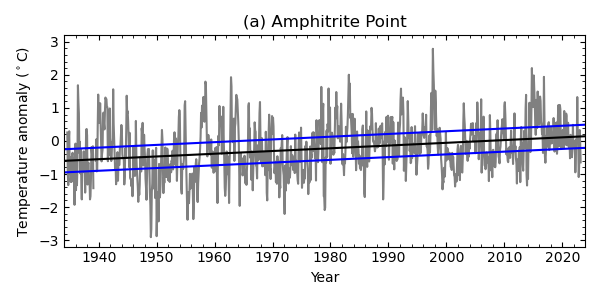
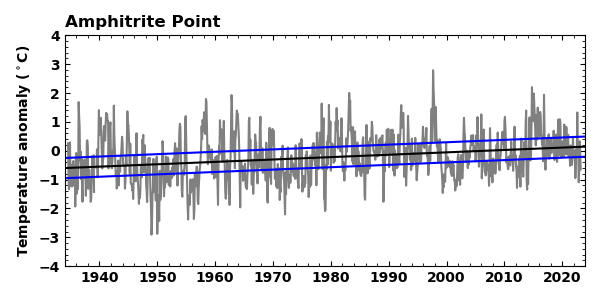
update plots of monthly anomaly trends to all have same y scale

diff --git a/scripts/plot_lightstation_temperature.py b/scripts/plot_lightstation_temperature.py
@@ -57,14 +57,11 @@ def date_to_flat_numeric(all_years):
     return date_flat
 
 
-def plot_monthly_anom(anom_file: str, station_name: str, subplot_letter: str,
-                      plot_name: str, best_fit=None):
+def plot_monthly_anomalies(anom_file: str, station_name: str, plot_name: str, best_fit=None):
     """
     Plot lightstation sea surface temperature anomalies in grey with a trend line
     :param anom_file: path of file containing SST anomaly data
     :param station_name: name of the lightstation
-    :param subplot_letter: a letter to add to the corner of the plot if it will
-    be a subplot
     :param plot_name: full path name to save the plot to
     :param best_fit: None or "lstq" or the full path to a csv file containing the
     best fit results
@@ -135,10 +132,10 @@ def plot_monthly_anom(anom_file: str, station_name: str, subplot_letter: str,
 
     # Plot formatting
     ax.set_xlim((min(date_flat), max(date_flat)))
-    ybot, ytop = plt.ylim()
-    ax.set_ylim((-max(abs(np.array([ybot, ytop]))),
-                 max(abs(np.array([ybot, ytop])))))
-    ax.set_xlabel('Year')
+    # ybot, ytop = plt.ylim()
+    # ax.set_ylim((-max(abs(np.array([ybot, ytop]))),
+    #              max(abs(np.array([ybot, ytop])))))
+    ax.set_ylim((-4, 4))
     ax.set_ylabel('Temperature anomaly ($^\circ$C)')
     ax.minorticks_on()
     plt.tick_params(which='major', direction='in',
@@ -148,7 +145,7 @@ def plot_monthly_anom(anom_file: str, station_name: str, subplot_letter: str,
     # ax.tick_params(axis='x', which='minor', bottom=False, direction='in')
     # ax.set_title(
     #     f'Time series of temperature anomalies at {station_name}')
-    ax.set_title(f'({subplot_letter}) {station_name}')
+    ax.set_title(station_name, loc='left')
     plt.tight_layout()
     plt.savefig(plot_name)
     plt.close(fig)
@@ -477,83 +474,6 @@ def multi_trend_table_image():
     df_img.to_csv(
         os.path.join(analysis_dir, os.path.basename(df_img_name).replace('png', 'csv')),
         index=True
-    )
-
-    # Change the current directory back
-    os.chdir(old_dir)
-    return
-
-
-def trend_table_image_deprec():
-    """ DEPRECATED
-    Save the table of analysis periods, trends, and confidence intervals as an image.
-    Include the Cummins & Masson (2014) data for comparison.
-    Code requires and assumes that stations are only listed in alphabetical order
-    everywhere
-    :return:
-    """
-    old_dir = os.getcwd()
-    new_dir = os.path.dirname(old_dir)
-    os.chdir(new_dir)
-
-    analysis_dir = os.path.join(new_dir, 'analysis')
-    figures_dir = os.path.join(new_dir, 'figures')
-    data_dir = os.path.join(new_dir, 'data', 'monthly')
-
-    # Get file containing new trends
-    new_trend_file = './analysis/monte_carlo_max_siml50000_st_cummins.csv'
-    df_new_trend = pd.read_csv(new_trend_file)
-
-    cm2014_file = './analysis/cummins_masson_2014_trends.csv'
-    cm2014_df = pd.read_csv(cm2014_file)
-
-    # Make a dataframe to print to an image containing the analysis period
-    # and the trends and confidence intervals for each station
-    df_img = cm2014_df
-
-    # Initialize columns for containing the updated results
-    df_img['New analysis time period'] = np.repeat('', len(df_img))
-    df_img['New least-squares trend in C/century'] = np.repeat('', len(df_img))
-
-    # Get the raw data in csv format
-    raw_files = glob.glob(data_dir + '/*MonthlyTemp.csv')
-    if len(raw_files) == 0:
-        print('No monthly temperature data files found; try a different search key')
-        return
-    raw_files.sort()
-
-    # Iterate through all the files
-    for i in range(len(raw_files)):
-        df_in = pd.read_csv(raw_files[i], index_col='Year', na_values=[99.99, 999.9, 999.99])
-
-        # Get the start and end month and year of analysis period
-        # with the end including the very last record, different than nans_to_strip() function
-        st_mth, st_yr, en_mth, en_yr = get_record_st_en(df_in)
-
-        # Both for deg C/century
-        trend_i = np.round(df_new_trend.loc[i, 'Theil-Sen slope [deg C/century]'], decimals=2)
-        conf_int_i = np.round(
-            df_new_trend.loc[i, 'Monte Carlo confidence limit [deg C/century]'],
-            decimals=2
-        )
-
-        # Update the dataframe to be exported as an image
-        df_img.loc[i, 'New analysis time period'] = f'{st_mth} {st_yr} - {en_mth} {en_yr}'
-        df_img.loc[i, 'New least-squares trend in C/century'] = '{:.2f} +/- {:.2f}'.format(
-            trend_i, conf_int_i)
-
-    # Export the table in PNG format
-    df_img.set_index('Station', inplace=True)
-    df_img_name = os.path.join(
-        figures_dir,
-        os.path.basename(new_trend_file).replace('.csv', '_cm2014.png')
-    )
-    dfi.export(df_img, os.path.join(figures_dir, df_img_name))
-
-    # Export the table in csv format too
-    df_img.to_csv(
-        os.path.join(analysis_dir, os.path.basename(df_img_name).replace('png', 'csv')),
-        index=False
     )
 
     # Change the current directory back
@@ -1099,7 +1019,7 @@ def plot_daily_T_statistics():
 
 
 def main(
-        plot_t_anom: bool = False,
+        plot_monthly_anom: bool = False,
         plot_clim: bool = False,
         plot_daily_anom: bool = False,
         plot_daily_anom_window=None,
@@ -1126,14 +1046,12 @@ def main(
         "monte_carlo_max_siml50000_ols_st_cummins.csv"
     )
 
-    if plot_t_anom:
-        subplot_letters = 'abcdefgh'
-
-        for stn, f, letter in zip(STATION_NAMES, anom_files, subplot_letters):
+    if plot_monthly_anom:
+        for stn, f in zip(STATION_NAMES, anom_files):
             png_filename = os.path.join(
                 output_folder, stn.replace(' ', '_') + '_monthly_mean_sst_anomalies_ols.png'
             )
-            plot_monthly_anom(f, stn, letter, png_filename, best_fit=monte_carlo_results)
+            plot_monthly_anomalies(f, stn, png_filename, best_fit=monte_carlo_results)
 
     if plot_clim:
         clim_file = os.path.join(
